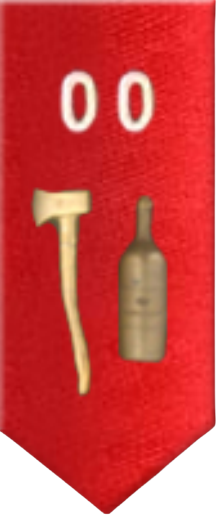
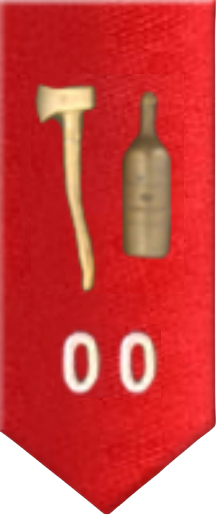
Merge pull request #319 from La-CHATTE-2-0/billot
Billot

Pull request: Billot

diff --git a/src/components/articles/Article8.vue b/src/components/articles/Article8.vue
@@ -41,36 +41,19 @@ import Article8Spe from "./Article8Spe.vue";
             <li>Vos armes personnelles</li>
             <li>Les symboles:</li>
         </ul>
-        <v-table class="table align-middle mt-2" data-fal-table="insigne">
+
+        <v-table class="table align-middle my-2" data-fal-table="insigne">
             <caption class="d-none">
                 Insignes
             </caption>
             <thead>
                 <tr>
-                    <th scope="col">Insigne</th>
-                    <th scope="col">Description</th>
-                    <th scope="col"></th>
-                </tr>
-            </thead>
-            <tbody class="table-group-divider">
-                <tr>
                     <td colspan="3">
                         <h3>Les symboles</h3>
                     </td>
                 </tr>
-                <tr>
-                    <td>Abeille</td>
-                    <td>Cursus parfait (fin du circulaire)</td>
-                    <td data-fal-insigne>
-                        <img
-                            loading="lazy"
-                            width="100"
-                            height="100"
-                            src="/images/insigne/abeille.png"
-                            alt="Abeille"
-                        />
-                    </td>
-                </tr>
+            </thead>
+            <tbody class="table-group-divider">
                 <tr>
                     <td>Aigle</td>
                     <td>Amour de l'aviation</td>
@@ -582,11 +565,21 @@ import Article8Spe from "./Article8Spe.vue";
                         />
                     </td>
                 </tr>
+            </tbody>
+        </v-table>
+
+        <v-table class="table align-middle my-2" data-fal-table="insigne">
+            <caption class="d-none">
+                Insignes décernés par les partenaires, les Grand-Maîtres
+            </caption>
+            <thead>
                 <tr>
                     <td colspan="3">
                         <h3>Les insignes décernés par le/la partenaire</h3>
                     </td>
                 </tr>
+            </thead>
+            <tbody>
                 <tr>
                     <td>Épee</td>
                     <td>Fin Baiseur</td>
@@ -652,11 +645,21 @@ import Article8Spe from "./Article8Spe.vue";
                         />
                     </td>
                 </tr>
+            </tbody>
+        </v-table>
+
+        <v-table class="table align-middle my-2" data-fal-table="insigne">
+            <caption class="d-none">
+                Insignes décernés par les Grand-Maîtres
+            </caption>
+            <thead>
                 <tr>
                     <td colspan="3">
                         <h3>Les insignes décernés par un Grand-Maître</h3>
                     </td>
                 </tr>
+            </thead>
+            <tbody>
                 <tr>
                     <td>Abeille</td>
                     <td>
@@ -719,13 +722,13 @@ import Article8Spe from "./Article8Spe.vue";
                     <td>Bouteille de Champagne</td>
                     <td>Coma éthylique certifié</td>
                     <td data-fal-insigne>
-                            <img
-                                loading="lazy"
-                                width="100"
-                                height="100"
-                                src="/images/insigne/bouteille_de_champagne.png"
-                                alt="Bouteille de Champagne"
-                            />
+                        <img
+                            loading="lazy"
+                            width="100"
+                            height="100"
+                            src="/images/insigne/bouteille_de_champagne.png"
+                            alt="Bouteille de Champagne"
+                        />
                     </td>
                 </tr>
                 <tr>
@@ -934,23 +937,38 @@ import Article8Spe from "./Article8Spe.vue";
                         />
                     </td>
                 </tr>
+            </tbody>
+        </v-table>
+
+        <v-table class="table align-middle my-2" data-fal-table="insigne">
+            <caption class="d-none">
+                Insignes à decernements particuliers
+            </caption>
+            <thead>
                 <tr>
-                    <td colspan="3">
-                        <h3>Les insignes à décernements particuliers</h3>
-                        <span>(Décerné par GM avec accord des porteurs de l'insigne)</span>
+                    <td colspan="3" class="pb-2">
+                        <h3 class="mb-2">
+                            Les insignes à décernements particuliers
+                        </h3>
+                        <span
+                            >(Décerné par GM avec accord des porteurs de
+                            l'insigne)</span
+                        >
                     </td>
                 </tr>
+            </thead>
+            <tbody>
                 <tr>
                     <td>Clé de sol</td>
                     <td>Digne chanteur de paillardes</td>
                     <td data-fal-insigne>
-                            <img
-                                loading="lazy"
-                                width="100"
-                                height="100"
-                                src="/images/insigne/cle_de_sol.png"
-                                alt="Cle de sol"
-                            />
+                        <img
+                            loading="lazy"
+                            width="100"
+                            height="100"
+                            src="/images/insigne/cle_de_sol.png"
+                            alt="Cle de sol"
+                        />
                     </td>
                 </tr>
                 <tr>
@@ -966,11 +984,21 @@ import Article8Spe from "./Article8Spe.vue";
                         />
                     </td>
                 </tr>
+            </tbody>
+        </v-table>
+
+        <v-table class="table align-middle my-2" data-fal-table="insigne">
+            <caption class="d-none">
+                Insignes régionaux
+            </caption>
+            <thead>
                 <tr>
                     <td colspan="3">
                         <h3>Les insignes régionaux</h3>
                     </td>
                 </tr>
+            </thead>
+            <tbody>
                 <tr>
                     <td>Abeille</td>
                     <td>Ville impériale</td>
@@ -1125,13 +1153,13 @@ import Article8Spe from "./Article8Spe.vue";
                     <td>Taste-vin</td>
                     <td>Bourguignon</td>
                     <td data-fal-insigne>
-                            <img
-                                loading="lazy"
-                                width="100"
-                                height="100"
-                                src="/images/insigne/taste_de_vin.png"
-                                alt="Taste-vin"
-                            />
+                        <img
+                            loading="lazy"
+                            width="100"
+                            height="100"
+                            src="/images/insigne/taste_de_vin.png"
+                            alt="Taste-vin"
+                        />
                     </td>
                 </tr>
             </tbody>

diff --git a/src/components/articles/Article7.vue b/src/components/articles/Article7.vue
@@ -731,6 +731,7 @@ import Article7SpeFiliere from "./Article7SpeFiliere.vue";
                     <td>Grenouille</td>
                     <td data-fal-insigne>
                         <img
+                            style="rotate: 90deg"
                             loading="lazy"
                             width="100"
                             height="100"
@@ -1064,6 +1065,19 @@ import Article7SpeFiliere from "./Article7SpeFiliere.vue";
                         <strong>service militaire</strong> ou le
                         <strong>service civique</strong>.
                     </td>
+                </tr>
+                <tr>
+                    <td data-fal-insigne>
+                        <img
+                            loading="lazy"
+                            width="100"
+                            height="100"
+                            src="/images/insigne/abeille.png"
+                            alt="Abeille"
+                        />
+                    </td>
+                    <td>Abeille</td>
+                    <td>Cursus parfait (fin du circulaire)</td>  
                 </tr>
             </tbody>
         </v-table>